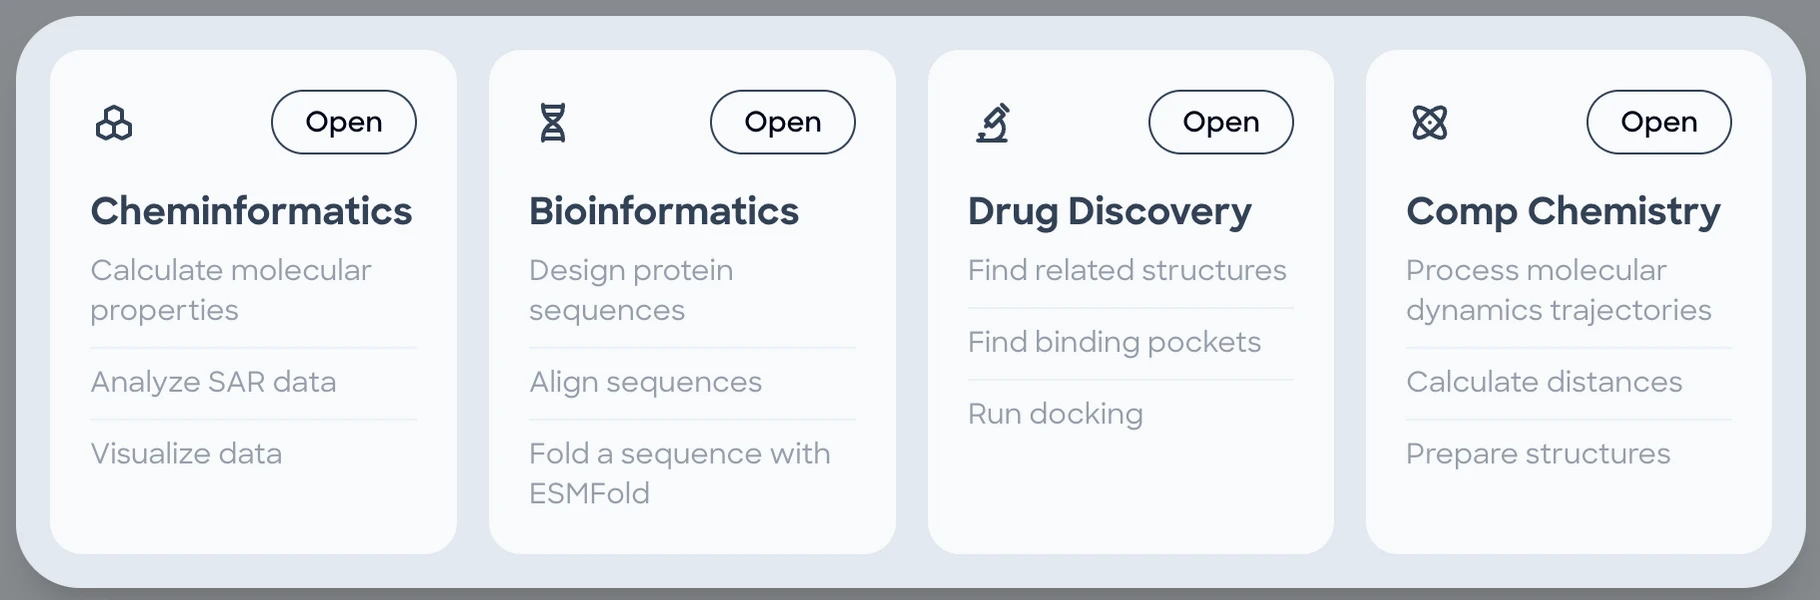
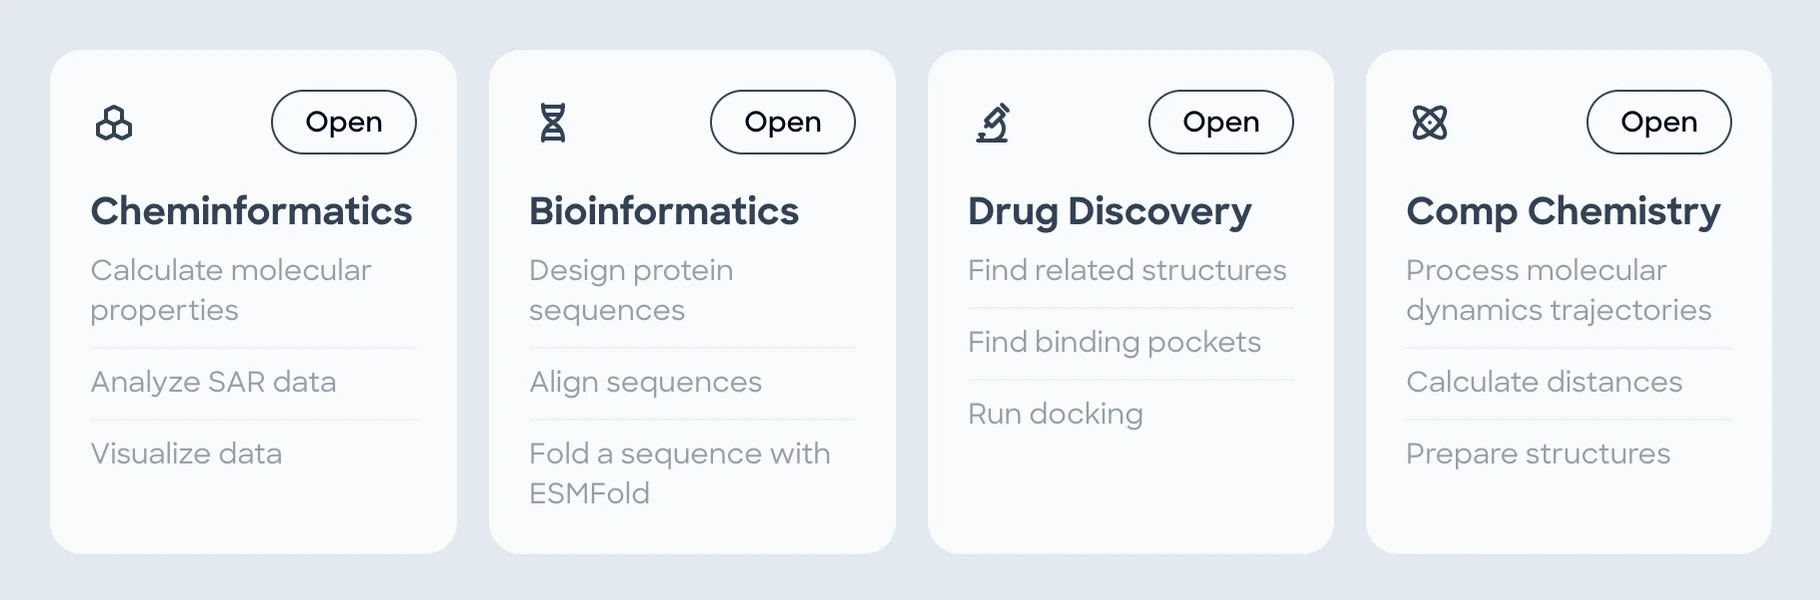
Make the MARA and Workspace View screenshots readable and match the app
- Workspace View map: the side cards move above and below, so the screenshot fills the column at every width (856 px at 1470, was 456)
- Conversations and Default tool: 4 desktop screenshots sit full width above their legends, and each legend's descriptions line up in one column
- 3D viewer: First, Previous and Next Model get their own rows, and Download moves here from the chat legend, where no such button exists
- Open Examples, Create menu and Knowledge screenshots lose the gray rim, the cut "ew?" and the half line at the bottom
- Threads screenshot no longer suggests MARA answers in comment threads
- Tools: What's New?, Filters, Tags and the Run section now say what the app does, including what Nanome's own team sees
- Search gives the Ctrl+F shortcut for Windows and Linux, and Sharing says what someone else sees in a shared chat
- Card and body text describe instead of giving commands, and the Authentication card says secrets
- The connection warning gets its own section at the end of Workspace View

Changed region(s): [[0.0, 0.0, 1.0, 1.0]]

diff --git a/docs/mara/conversations.md b/docs/mara/conversations.md
@@ -18,20 +18,17 @@ Chats started in a workspace's MARA tab stay with that workspace, so this page d
 
 The Chat tab lists the chats started on this page, newest first: pinned chats at the top, then Today, Past week, Past month, the earlier months of this year, and older years. With no chat open, the page shows 3 starting points, a few prompts to try, and the message box.
 
-<ShotRow src="mara/conversations.webp" alt="The Conversations page with the Chat tab open and no chat selected">
+<ShotRow src="mara/conversations.webp" alt="The Conversations page with the Chat tab open and no chat selected" stack>
 
-<UiList label="Chat list">
+<UiList label="Chat page">
 <UiItem icon="plus" name="New Chat" area="0.9,15.6,15.0,4.5">Starts a new chat.</UiItem>
-<UiItem icon="search" name="Search (⌘F)" area="0.9,20.7,15.0,4.6">Searches your chat titles.</UiItem>
-</UiList>
-
-Hovering a chat in the list shows <AppIcon name="pin" /> **Pin**, which moves it to Pinned at the top, and <AppIcon name="trash" /> **Delete**, which asks for a second click.
-
-<UiList label="Starting points">
+<UiItem icon="search" name="Search (⌘F)" area="0.9,20.7,15.0,4.6">Searches your chat titles. On Windows and Linux the shortcut is Ctrl+F.</UiItem>
 <UiItem icon="play" name="Learn the Basics" area="39.1,40.6,11.0,15.4">Plays a walkthrough video of Nanome and MARA.</UiItem>
 <UiItem icon="message-2-share" name="Open Examples" href="#examples" area="50.7,40.6,10.9,15.4">Four example chats, one for each field.</UiItem>
 <UiItem icon="upload" name="Click to upload files" area="62.5,40.6,15.8,15.4">Opens a file picker, then asks what to do with the files, such as attach them to the chat or add them to a workspace. Files dropped anywhere on the page upload too.</UiItem>
 </UiList>
+
+Hovering a chat in the list shows <AppIcon name="pin" /> **Pin**, which moves it to Pinned at the top, and <AppIcon name="trash" /> **Delete**, which asks for a second click.
 
 </ShotRow>
 
@@ -55,7 +52,7 @@ The same message box sits in each workspace's [MARA tab](/nanome_web/workspace#m
 
 **Open Examples** shows one card for each field, with the tasks its example covers. **Open** on a card opens that example chat.
 
-<ShotRow src="mara/open-examples.webp" alt="The 4 example chat cards">
+<ShotRow src="mara/open-examples.webp" alt="The 4 example chat cards" crop="0.9,2.7,98.3,95.3">
 
 <UiList label="Example chats">
 <UiItem icon="hexagons" name="Cheminformatics" area="2.5,7.3,22.8,86">Calculate molecular properties, analyze SAR data, visualize data.</UiItem>
@@ -70,21 +67,16 @@ An example chat is marked **Example** and has no message box. **Continue this ch
 
 ## <AppIcon name="messages" /> In a chat {#in-a-chat}
 
-<ShotRow src="mara/example-chat.webp" alt="The Cheminformatics - PCA example chat, with a tool step, file links and a plot">
+<ShotRow src="mara/example-chat.webp" alt="The Cheminformatics - PCA example chat, with a tool step, file links and a plot" stack>
 
-<UiList label="Chat header">
-<UiItem icon="files" name="Files" href="#files-panel" area="91.6,1.4,7.8,6.3">The chat's files, tables and context.</UiItem>
-</UiList>
-
-In your own chats, the header also has <AppIcon name="pencil" /> **Edit title** next to the title, and <AppIcon name="share-2" /> [Share](#sharing).
+In your own chats, the header has <AppIcon name="pencil" /> **Edit title** next to the title, and <AppIcon name="share-2" /> [Share](#sharing).
 
 Above each answer, MARA names the tool or workflow it ran. The <AppIcon name="chevron-right" /> chevron beside it expands the step to show the tool's inputs and output. Files that MARA makes appear as links in the answer, and images and structures show under it.
 
-<UiList label="Under an answer">
+<UiList label="In a chat">
+<UiItem icon="files" name="Files" href="#files-panel" area="91.6,1.4,7.8,6.3">The chat's files, tables and context.</UiItem>
 <UiItem icon="eye-off" name="hide 1 file" area="18.7,84.1,9,5.5">Hides the file previews under the answer.</UiItem>
 </UiList>
-
-<AppIcon name="cloud-download" /> **Download**, next to a file's name, downloads that file.
 
 </ShotRow>
 
@@ -95,9 +87,12 @@ A structure file opens in a small 3D viewer inside the chat.
 <ShotRow src="mara/chat-3d-viewer.webp" alt="Docking poses in the chat's 3D viewer" crop="1.9,2.1,94.7,94.8">
 
 <UiList label="3D viewer">
-<UiItem name="First Model / Previous Model / Next Model" area="3.8,4,45.1,9.4">Steps through the models in a file with several, such as docking poses. The bar shows which model is on screen.</UiItem>
+<UiItem name="First Model" area="4.4,4.6,8.0,7.9">Goes to the first model in a file with several, such as docking poses.</UiItem>
+<UiItem name="Previous Model" area="12.4,4.6,8.0,7.9">Steps back one model.</UiItem>
+<UiItem name="Next Model" area="20.4,4.6,8.0,7.9">Steps forward one model. The bar shows which model is on screen, such as Model 1 / 9.</UiItem>
 <UiItem name="Reset Zoom" area="85.5,4.1,9.1,8.9">Fits the structure back into the view.</UiItem>
 <UiItem name="Screenshot / State Snapshot" area="85.5,13.1,9.1,9">Saves an image or the viewer's state.</UiItem>
+<UiItem icon="cloud-download" name="Download" area="90.4,91.0,4.6,4.2">Beside the file's name under the viewer. Downloads the structure file.</UiItem>
 </UiList>
 
 </ShotRow>
@@ -117,6 +112,8 @@ A structure file opens in a small 3D viewer inside the chat.
 
 </ShotRow>
 
+Someone else who opens a shared chat sees it marked **View Only**, with the owner's name under the title and no message box.
+
 Chats in a workspace's MARA tab have no Share button.
 
 ### <AppIcon name="files" /> Files panel {#files-panel}
@@ -131,7 +128,7 @@ Chats in a workspace's MARA tab have no Share button.
 <UiItem icon="file-arrow-right" name="Add to Workspace" area="3.1,55.8,46.5,4.6">Loads the ticked files into a workspace.</UiItem>
 <UiItem icon="cloud-download" name="Download" area="50.7,55.9,9.4,4.4">Downloads the ticked files.</UiItem>
 <UiItem icon="trash" name="Delete" area="61,55.8,9.7,4.6">Deletes the ticked files.</UiItem>
-<UiItem icon="table" name="Tables" href="/mara/features#tables" area="3.1,74.8,93.3,15.8">Data tables for the chat. Drop CSV or SDF files here, or ask MARA to make a table from a file.</UiItem>
+<UiItem icon="table" name="Tables" href="/mara/features#tables" area="3.1,74.8,93.3,15.8">Data tables for the chat. CSV or SDF files dropped here become tables, and MARA can make one from a file.</UiItem>
 <UiItem name="Context" area="3.3,93,93.2,5.3">Values from tool results and the conversation that MARA keeps for this chat. In your own chats you can edit it.</UiItem>
 </UiList>
 
@@ -185,11 +182,11 @@ In the MARA tab, clicking a file link opens a dialog with 4 choices. On this pag
 
 The Threads tab lists the comment threads you watch, from all your workspaces. Each row shows who started the thread, the workspace, the first comment and the number of replies. Clicking a row opens the thread on the right. A thread's menu has **Unwatch thread**, or **Watch thread** on one you don't watch.
 
-<ShotRow src="mara/threads.webp" alt="The Threads tab with a thread open">
+<ShotRow src="mara/threads.webp" alt="The Threads tab with a thread open" stack>
 
 <UiList label="Threads">
 <UiItem icon="mail" name="Unread" area="1.1,8.6,8.7,5.1">Shows only threads with comments you haven't read.</UiItem>
-<UiItem icon="search" name="Search (⌘F)" area="10,8.6,14,5.4">Searches the threads.</UiItem>
+<UiItem icon="search" name="Search (⌘F)" area="10,8.6,14,5.4">Searches the threads. On Windows and Linux the shortcut is Ctrl+F.</UiItem>
 <UiItem name="Open Workspace" area="87.7,8.5,11.7,5.5">Opens the thread's workspace.</UiItem>
 <UiItem name="Reply in thread" href="/nanome_web/comments" area="33.8,91,58.1,8">Adds a reply, the same as in the workspace's Comments tab.</UiItem>
 </UiList>

diff --git a/docs/nanome_web/workspace.md b/docs/nanome_web/workspace.md
@@ -10,17 +10,17 @@ An open workspace has the workspace panel on the right, the 3D view in the middl
 The panel's 6 tabs are the workspace's main menus:
 
 <ScreenMap src="nanome-web/workspace-overview.webp" alt="A workspace in Nanome Web" label="Workspace View screen">
+<MapCard icon="cube-3d-sphere" title="Workspace tabs" href="#workspace-tabs" side="top" area="0.4,7.6,9.0,5.3">One tab for each open workspace, under the top bar.</MapCard>
+<MapCard icon="chevrons-right" title="Workspace panel" href="#workspace-panel" side="top" area="66.2,12.9,33.8,87.1">The workspace's name, project and description, above the 6 tabs.</MapCard>
 <MapCard icon="stack-2" title="Entries" href="/nanome_web/entries" side="top" area="66.0,29.9,5.6,5.3">The structures and how each is drawn.</MapCard>
 <MapCard icon="hexagon" title="Ligands" href="/nanome_web/ligands" side="top" area="71.7,29.9,5.4,5.3">Every ligand in a table, with properties.</MapCard>
 <MapCard icon="message" title="Comments" href="/nanome_web/comments" side="top" area="77.4,29.9,6.6,5.3">Threaded comments.</MapCard>
 <MapCard icon="sparkles" title="MARA" href="#mara-tab" side="top" area="84.4,29.9,4.7,5.3">A MARA chat inside the workspace.</MapCard>
 <MapCard icon="upload" title="Import" href="/nanome_web/loading" side="top" area="89.4,29.9,4.8,5.3">Loading structures.</MapCard>
 <MapCard icon="users" title="Users" href="/nanome_web/collaboration" side="top" area="94.5,29.9,4.4,5.3">Sharing and sending to a headset.</MapCard>
-<MapCard icon="cube-3d-sphere" title="Workspace tabs" href="#workspace-tabs" side="left" area="0.4,7.6,9.0,5.3">One tab for each open workspace, under the top bar.</MapCard>
-<MapCard icon="box" title="Scenes rail" href="#scenes" side="left" area="0.0,12.9,3.1,87.1">The scenes saved in this workspace, on the left.</MapCard>
-<MapCard icon="chevrons-right" title="Workspace panel" href="#workspace-panel" side="right" area="66.2,12.9,33.8,87.1">The workspace's name, project and description, above the 6 tabs.</MapCard>
-<MapCard icon="lasso" title="Tool rail" href="#tool-rail" side="right" area="62.9,47.0,3.0,19.2">Default, Selection, Measurement and Add a comment, on the view's right edge.</MapCard>
+<MapCard icon="box" title="Scenes rail" href="#scenes" side="bottom" area="0.0,12.9,3.1,87.1">The scenes saved in this workspace, on the left.</MapCard>
 <MapCard icon="mouse" title="Moving around" href="#moving-around" side="bottom" area="3.2,12.9,62.9,87.1">Rotate, pan and zoom with the mouse or touch.</MapCard>
+<MapCard icon="lasso" title="Tool rail" href="#tool-rail" side="bottom" area="62.9,47.0,3.0,19.2">Default, Selection, Measurement and Add a comment, on the view's right edge.</MapCard>
 <MapCard icon="player-play" title="Bottom bar" href="#bottom-bar" side="bottom" area="3.5,93.7,39.6,5.7">Point of view, scene stepping and playback, Capture image and viewer settings.</MapCard>
 <MapCard icon="mist" title="Sequence viewer" href="#sequence-viewer" side="bottom" area="62.9,93.8,3.0,5.5">The sequences of every entry, for hovering and selecting residues.</MapCard>
 </ScreenMap>
@@ -77,7 +77,7 @@ A click only counts when the mouse moves 4 pixels or less between pressing and r
 
 ### <AppIcon name="droplet" /> Default {#default}
 
-<ShotRow src="nanome-web/hover-highlight.webp" alt="A residue on the ribbon highlighted and labeled on hover">
+<ShotRow src="nanome-web/hover-highlight.webp" alt="A residue on the ribbon highlighted and labeled on hover" stack>
 
 Hovering highlights the whole residue under the cursor, whether the cursor is on an atom, a bond or the ribbon. Clicking adds that residue to the selection, or removes it when it's already selected. Clicking empty space clears the selection, and double-clicking zooms to a residue or an entry.
 
@@ -197,8 +197,6 @@ While you're [following someone](/nanome_web/collaboration#following-from-the-we
 - Double-clicking frames what's highlighted under the cursor: the residue with the Default tool, or the atom, residue or chain with the Selection tool. Double-clicking inside an entry's bounding box, but off its atoms and ribbon, frames the whole entry, as long as the box covers less than 75% of the view.
 
 </Accordion>
-
-When the ping to Nanome's server reaches 160 ms, a yellow warning icon <AppIcon name="alert-triangle" /> appears at the top left of the viewer. From 220 ms it turns into a red <AppIcon name="wifi-off" />. Hovering it shows the ping time.
 
 ## <AppIcon name="player-play" /> Bottom bar {#bottom-bar}
 
@@ -322,3 +320,7 @@ A scene can hold a recorded presentation, made in Nanome XR with [Add Recording]
 <UiItem icon="cube-3d-sphere" name="Workspace tab">Each open workspace gets a tab under the top bar.</UiItem>
 <UiItem icon="plus" name="New tab">Opens another workspace tab.</UiItem>
 </UiList>
+
+## <AppIcon name="wifi-off" /> Connection warning {#connection-warning}
+
+When the ping to Nanome's server reaches 160 ms, a yellow warning icon <AppIcon name="alert-triangle" /> appears at the top left of the viewer. From 220 ms it turns into a red <AppIcon name="wifi-off" />. Hovering it shows the ping time.

diff --git a/docs/mara/tools.md b/docs/mara/tools.md
@@ -13,20 +13,20 @@ title: Tools
 <MapCard icon="route" title="Workflows" href="#workflows" side="bottom" area="0,45.2,12.8,7.9">Sequences of tools, saved as steps for MARA to follow.</MapCard>
 <MapCard icon="file-info" title="Knowledge" href="#knowledge" side="bottom" area="0,53.7,12.8,8.1">Background information MARA uses in its answers.</MapCard>
 <MapCard icon="search" title="Search" side="top" area="75.2,17.3,2.1,5.8">Searches the tools by name and description.</MapCard>
-<MapCard icon="sparkles" title="What's New?" side="top" area="77.7,16.9,7.7,6.4">The tools added or updated most recently, with their authors and dates.</MapCard>
+<MapCard icon="sparkles" title="What's New?" side="top" area="77.7,16.9,7.7,6.4">The newest tools, by the date they were added, with who made them. A number on the button counts the ones added since you last opened it.</MapCard>
 <MapCard icon="player-play" title="Tutorial" side="top" area="85.7,16.9,6.6,6.4">Plays the tool-creation part of the Welcome to MARA video.</MapCard>
 <MapCard icon="plus" title="Create" href="#creating-a-tool" side="top" area="92.5,16.9,6.5,6.4">New Tool, Import from GitHub or Request a Tool.</MapCard>
 <MapCard icon="key" title="All / Secrets" side="bottom" area="14.1,27.4,9.2,8.4">Every tool, or the secrets (such as API keys) that tools use.</MapCard>
-<MapCard icon="filter" title="Filters" side="bottom" area="14.2,38.9,25.8,7.4">A category, then All, Custom or Nanome tools. In an organization, Custom also splits into Org and Me.</MapCard>
+<MapCard icon="filter" title="Filters" side="bottom" area="14.2,38.9,25.8,7.4">A category, then All, Custom or Nanome tools. Nanome's own team sees Public in place of Nanome, as in this screenshot. In an organization, Custom also splits into Org and Me.</MapCard>
 <MapCard icon="eye-off" title="Disabled" side="bottom" area="90.7,38.9,8.4,7.0">Shows the tools that are turned off or missing a secret instead.</MapCard>
 <MapCard icon="list" title="A tool" side="bottom" area="14.3,49.3,83.7,23.3">Its name, tags and description. Clicking it opens the tool's page.</MapCard>
-<MapCard icon="world" title="Tags" href="#tool-tags" side="bottom" area="46.6,54.3,10.5,5.2">The tool's type, such as Python, and Premium or integration where they apply.</MapCard>
+<MapCard icon="world" title="Tags" href="#tool-tags" side="bottom" area="46.6,54.3,10.5,5.2">The tool's type, such as Python, and Premium or integration where they apply. Nanome's own team also sees Public, as here.</MapCard>
 <MapCard icon="dots" title="Tool menu" href="#tool-menu" side="bottom" area="94.6,58.8,1.8,4.8">Who the tool is on for, Edit and Delete.</MapCard>
 </ScreenMap>
 
 ## <AppIcon name="tool" /> Tools {#tools}
 
-The list shows every tool MARA can run, including your organization's custom tools and public ones. Clicking one opens its page, with its description, its arguments (**Args**), its script or endpoint, and a **Run** section that tests the tool on a file you pick.
+The list shows every tool MARA can run, including your organization's custom tools and public ones. Clicking one opens its page, with its description, its arguments (**Args**), its script or endpoint, and a **Run** section that runs the tool with values you enter for its arguments.
 
 ### Tool tags {#tool-tags}
 
@@ -96,7 +96,7 @@ An integration connects MARA to another platform, such as CDD Vault, KNIME Serve
 
 ## <AppIcon name="route" /> Workflows {#workflows}
 
-A workflow is a sequence of tools saved as steps, which MARA follows to plan more accurately. To run one, choose <Btn icon="route">Run workflow</Btn> in the [message box](/mara/conversations#message-box).
+A workflow is a sequence of tools saved as steps, which MARA follows to plan more accurately. <Btn icon="route">Run workflow</Btn> in the [message box](/mara/conversations#message-box) runs one.
 
 <ShotRow src="mara/workflows.webp" alt="The Workflows page">
 
@@ -121,7 +121,7 @@ A workflow is a sequence of tools saved as steps, which MARA follows to plan mor
 
 ## <AppIcon name="file-info" /> Knowledge {#knowledge}
 
-<ShotRow src="mara/knowledge.webp" alt="The Base knowledge tab">
+<ShotRow src="mara/knowledge.webp" alt="The Base knowledge tab" crop="0,0,100,83">
 
 <UiList label="Knowledge tabs">
 <UiItem name="Org knowledge" area="1.9,20.7,9.8,10.6">Your organization's notes for MARA, written in Markdown. <strong>Edit</strong> changes them. Headers that group related notes work best.</UiItem>

diff --git a/docs/mara/features.md b/docs/mara/features.md
@@ -9,7 +9,7 @@ You ask MARA in plain language, in a [chat](/mara/conversations#chat) or a works
 <IconGrid label="MARA features" :cols="3">
 <IconCard icon="messages" title="Tasks" href="#tasks">What you can ask for, by kind of task.</IconCard>
 <IconCard icon="table" title="Tables" href="#tables">Query, filter, plot and export CSV data.</IconCard>
-<IconCard icon="atom" title="Structures" href="#structures">See results in 3D and send them to a workspace.</IconCard>
+<IconCard icon="atom" title="Structures" href="#structures">Results in 3D, and sending them to a workspace.</IconCard>
 </IconGrid>
 
 ## <AppIcon name="messages" /> Tasks {#tasks}
@@ -67,7 +67,7 @@ With a CSV file in the chat, you can ask MARA to:
 - Summarize the file's contents, for a first look at the data.
 - Write the results to a new CSV file, or overwrite one, to export them.
 
-Tables for the chat live in the **Tables** section of the [Files panel](/mara/conversations#files-panel). Drop a CSV or SDF file there, choose Open as Data Table in a file's menu, or ask MARA to make a table from a file in the chat.
+Tables for the chat live in the **Tables** section of the [Files panel](/mara/conversations#files-panel). A table comes from a CSV or SDF file dropped there, from Open as Data Table in a file's menu, or from MARA when asked in the chat.
 
 ## <AppIcon name="atom" /> Structures {#structures}
 

diff --git a/docs/mara/technical.md b/docs/mara/technical.md
@@ -6,9 +6,9 @@ title: Technical Documentation
 
 <IconGrid label="Technical topics">
 <IconCard icon="topology-star-3" title="Architecture and deployment" href="#architecture">How an enterprise deployment is laid out.</IconCard>
-<IconCard icon="tool" title="Tool creation" href="#tool-creation">Build your own tools for MARA.</IconCard>
-<IconCard icon="key" title="API keys" href="#api-keys">Use MARA and Nanome from other applications.</IconCard>
-<IconCard icon="lock" title="Authentication" href="#authentication">Single sign-on with SAML, and organization-wide keys.</IconCard>
+<IconCard icon="tool" title="Tool creation" href="#tool-creation">Making your own tools for MARA.</IconCard>
+<IconCard icon="key" title="API keys" href="#api-keys">Using MARA and Nanome from other applications.</IconCard>
+<IconCard icon="lock" title="Authentication" href="#authentication">Single sign-on with SAML, and secrets shared across an organization.</IconCard>
 </IconGrid>
 
 ## <AppIcon name="topology-star-3" /> Architecture and deployment {#architecture}
